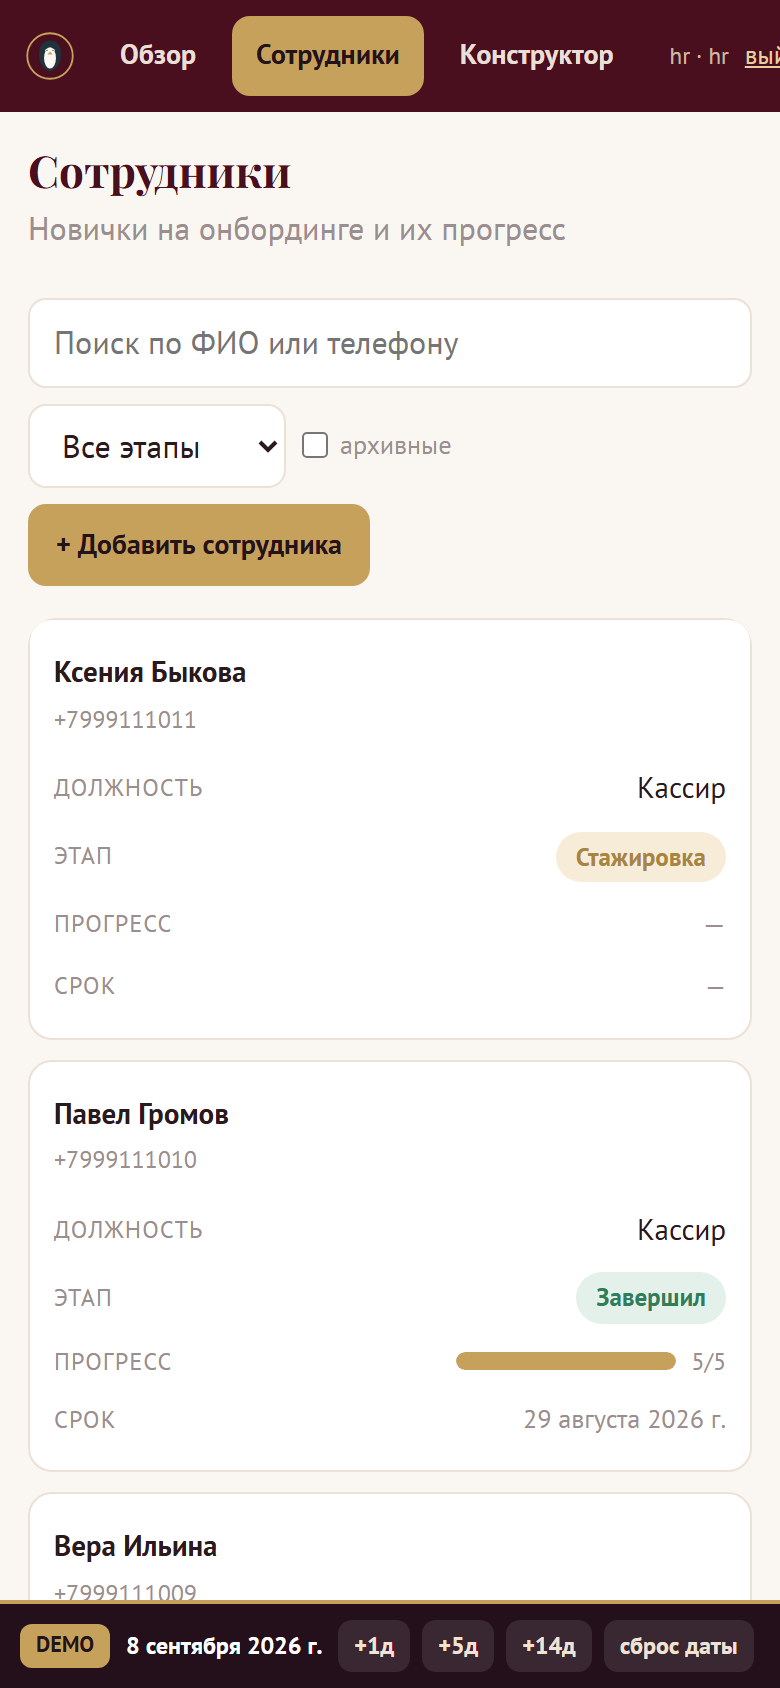
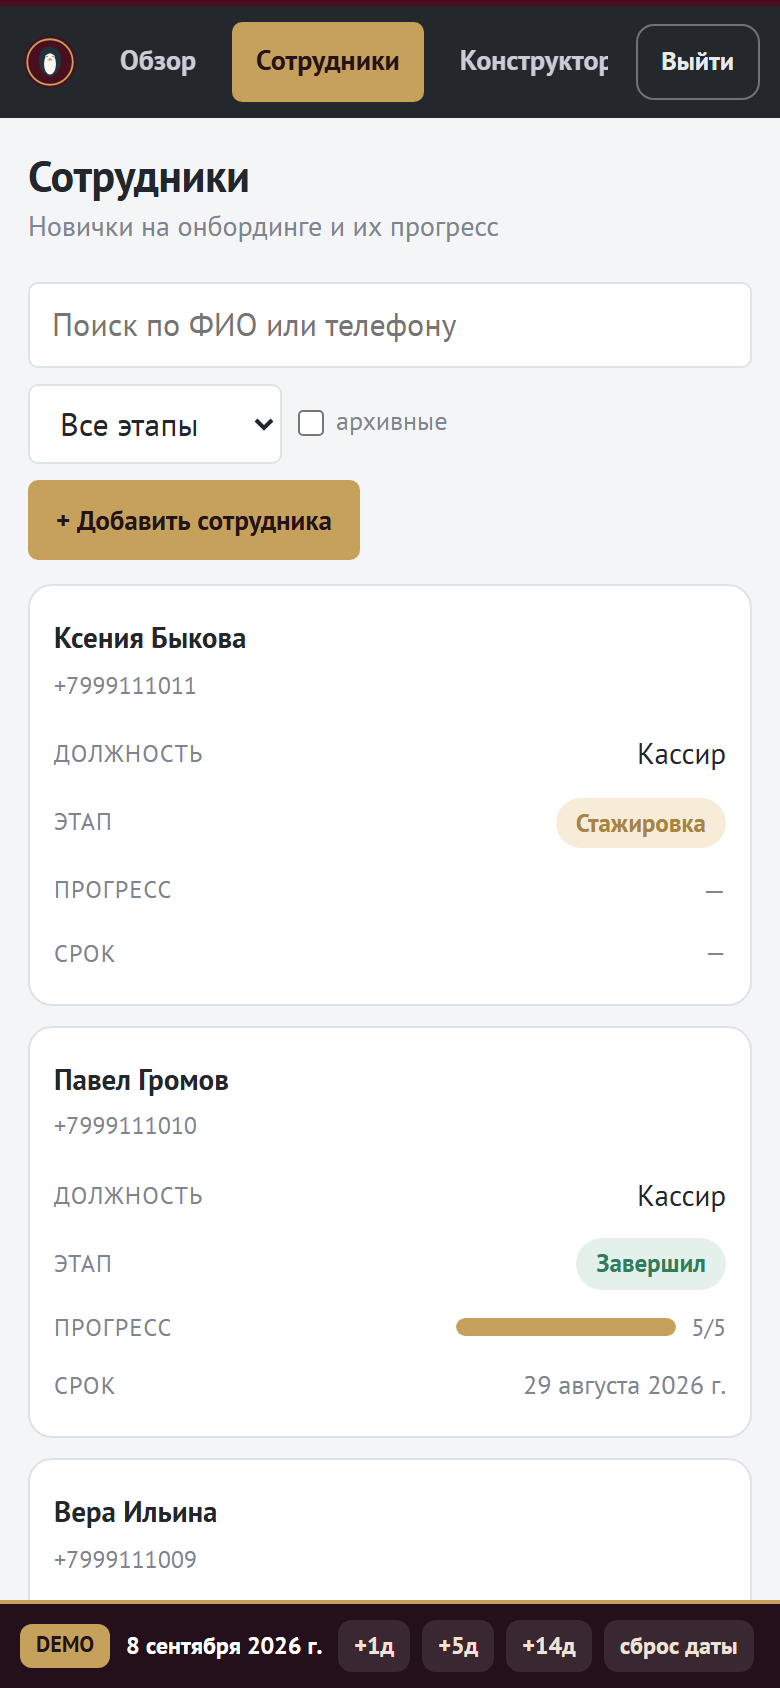
Строгий вид рабочей панели HR
Скругления 14px -> 6px, кнопки 11 -> 6. Фон приложения нейтральный (#f4f5f7),
тёплый кремовый остался у сотрудника на телефоне через --bg-warm: рабочая
панель и брендовый интерфейс разведены намеренно.

Сайдбар — тёмно-нейтральный с бордовой полосой сверху и золотым активным
пунктом: бренд читается, но не спорит с данными. Заголовки в hr-main без
засечек (Playfair остался в логотипе и у сотрудника). Плотнее: h1 27 -> 21,
padding панелей 20 -> 15, отступы 30/34 -> 22/24.

KPI-цифры на «Обзоре» перевёрстаны в класс .kpi — без засечек, табличные
цифры, подписи капителью.

Сайдбар получил padding-bottom под высоту панели DEMO: она накрывала кнопку
выхода.

Проверено в браузере: 17/17 экранов и 20/20 сценарных проверок.

Changed region(s): [[0.0308, 0.1848, 0.9538, 0.955], [0.0, 0.0, 1.0, 0.154], [0.7077, 0.4313, 0.9538, 0.5237]]

diff --git a/prototype/web/src/styles.css b/prototype/web/src/styles.css
@@ -9,16 +9,20 @@
   --primary-2: #6a2436;
   --accent: #c6a15b;
   --accent-dark: #a9843f;
-  --bg: #faf6f2;
+  --bg: #f4f5f7;              /* рабочий фон — нейтральный */
+  --bg-warm: #faf6f2;         /* тёплый фон остаётся у сотрудника на телефоне */
+  --ink: #24272c;             /* тёмный нейтральный: сайдбар, строгие заголовки */
+  --ink-2: #33373e;
   --surface: #ffffff;
-  --text: #2a1a1e;
-  --muted: #9b8e8e;
-  --line: #ece1d6;
+  --text: #23262b;
+  --muted: #7d8590;
+  --line: #dfe2e6;
+  --line-warm: #ece1d6;
   --error: #c0392b;
   --success: #2e7d5b;
-  --radius: 14px;
-  --shadow: 0 6px 24px rgba(74, 15, 30, 0.09);
-  --shadow-lg: 0 18px 50px rgba(74, 15, 30, 0.18);
+  --radius: 6px;
+  --shadow: 0 1px 2px rgba(16, 20, 26, .06);
+  --shadow-lg: 0 10px 32px rgba(16, 20, 26, .16);
   --devbar-h: 44px;
   font-family: 'PT Sans', -apple-system, 'Segoe UI', Roboto, sans-serif;
 }
@@ -35,7 +39,7 @@ input, textarea, select { font: inherit; color: var(--text); }
 
 /* ---------- buttons ---------- */
 .btn { display: inline-flex; align-items: center; justify-content: center; gap: 8px;
-  padding: 12px 20px; border-radius: 11px; font-weight: 700; transition: .15s;
+  padding: 11px 18px; border-radius: 6px; font-weight: 700; transition: .15s;
   background: var(--accent); color: #241318; }
 .btn:hover { background: var(--accent-dark); }
 .btn:disabled { opacity: .45; cursor: not-allowed; }
@@ -47,7 +51,7 @@ input, textarea, select { font: inherit; color: var(--text); }
 .btn.dark:hover { background: var(--primary-2); }
 .btn.danger { background: transparent; color: var(--error); border: 1.5px solid #e8c4bf; }
 .btn.danger:hover { background: #fbeceb; }
-.btn.sm { padding: 8px 14px; border-radius: 9px; font-size: 14px; }
+.btn.sm { padding: 7px 13px; border-radius: 5px; font-size: 13.5px; }
 
 /* ---------- generic ---------- */
 .card { background: var(--surface); border: 1px solid var(--line); border-radius: var(--radius); box-shadow: var(--shadow); }
@@ -85,9 +89,9 @@ input, textarea, select { font: inherit; color: var(--text); }
 /* ---------- employee (mobile app-shell) ---------- */
 .phone-wrap { min-height: 100%; display: flex; justify-content: center;
   padding: 0 0 var(--devbar-h);
-  background: radial-gradient(120% 60% at 50% 0%, #f3e8dc 0%, var(--bg) 60%); }
+  background: radial-gradient(120% 60% at 50% 0%, #f3e8dc 0%, var(--bg-warm) 60%); }
 .phone { width: 100%; max-width: 460px; min-height: calc(100vh - var(--devbar-h));
-  background: var(--bg); display: flex; flex-direction: column; position: relative; }
+  background: var(--bg-warm); display: flex; flex-direction: column; position: relative; }
 @media (min-width: 620px) {
   .phone-wrap { align-items: flex-start; padding: 30px 16px calc(var(--devbar-h) + 24px); }
   .phone { min-height: calc(100vh - var(--devbar-h) - 70px); border-radius: 30px;
@@ -107,7 +111,7 @@ input, textarea, select { font: inherit; color: var(--text); }
 
 /* липкая нижняя панель с главным действием — достаётся большим пальцем */
 .phone-action { position: sticky; bottom: var(--devbar-h); z-index: 6;
-  background: var(--bg); box-shadow: 0 -14px 18px -6px var(--bg), 0 -1px 0 var(--line);
+  background: var(--bg-warm); box-shadow: 0 -14px 18px -6px var(--bg-warm), 0 -1px 0 var(--line-warm);
   padding: 12px 16px calc(12px + env(safe-area-inset-bottom, 0px));
   margin-top: 10px; }
 .phone-action .btn { min-height: 52px; font-size: 17px; }
@@ -179,28 +183,37 @@ input, textarea, select { font: inherit; color: var(--text); }
 
 /* ---------- HR (desktop) ---------- */
 .hr-app { display: flex; min-height: 100vh; }
-.hr-side { width: 232px; background: var(--primary); color: #fff; padding: 20px 14px; flex: none;
-  display: flex; flex-direction: column; gap: 4px; position: sticky; top: 0; height: 100vh; }
+.hr-side { width: 212px; background: var(--ink); color: #fff; padding: 16px 12px; flex: none;
+  display: flex; flex-direction: column; gap: 3px; position: sticky; top: 0; height: 100vh;
+  /* снизу висит служебная панель DEMO — иначе она накрывает кнопку выхода */
+  padding-bottom: calc(var(--devbar-h) + 12px);
+  border-top: 3px solid var(--primary); }
 .hr-side .brand { font-family: 'Playfair Display', serif; font-weight: 700; font-size: 18px; padding: 8px 10px 16px; }
-.hr-side .brand small { display: block; color: #e6cfa0; font-family: 'PT Sans'; font-weight: 400; font-size: 12px; }
-.hr-side a { color: #eadfd7; text-decoration: none; padding: 10px 12px; border-radius: 9px; font-weight: 700; font-size: 14.5px; }
+.hr-side .brand small { display: block; color: #98a0ab; font-family: 'PT Sans'; font-weight: 400; font-size: 12px; }
+.hr-side a { color: #c9ced6; text-decoration: none; padding: 9px 11px; border-radius: 5px; font-weight: 700; font-size: 14px; }
 .hr-side a:hover { background: rgba(255,255,255,.08); }
 .hr-side a.active { background: var(--accent); color: #241318; }
+.hr-side a:not(.active):hover { color: #fff; }
 .hr-side .hr-nav { display: flex; flex-direction: column; gap: 4px; }
-.hr-side .who { margin-top: auto; font-size: 12.5px; color: #cbb6a2; padding: 10px 2px 2px;
+.hr-side .who { margin-top: auto; font-size: 12.5px; color: #98a0ab; padding: 10px 2px 2px;
   display: flex; flex-direction: column; gap: 8px; align-items: stretch; }
 .hr-side .who .acct { padding: 0 8px; }
-.hr-side .who .logout { color: #f3e6d4; font-size: 13.5px; font-weight: 700; padding: 9px 12px;
+.hr-side .who .logout { color: #e7eaee; font-size: 13.5px; font-weight: 700; padding: 9px 12px;
   border: 1.5px solid rgba(255,255,255,.35); border-radius: 9px; background: transparent;
   cursor: pointer; text-align: center; }
 .hr-side .who .logout:hover { background: rgba(255,255,255,.12); border-color: rgba(255,255,255,.6); }
 
-.hr-main { flex: 1; padding: 30px 34px 96px; max-width: 1180px; }
-.hr-main h1 { font-size: 27px; margin-bottom: 4px; }
-.hr-main .subtitle { color: var(--muted); margin-bottom: 22px; }
+.hr-main { flex: 1; padding: 22px 24px 88px; max-width: 1180px; }
+/* в рабочей панели заголовки без засечек — засечки остаются в логотипе и у сотрудника */
+.hr-main h1, .hr-main h2, .hr-main h3, .hr-main h4 {
+  font-family: 'PT Sans', -apple-system, 'Segoe UI', Roboto, sans-serif;
+  color: var(--text); letter-spacing: -.01em; }
+.hr-main h1 { font-size: 21px; margin-bottom: 2px; }
+.hr-main h2 { font-size: 17px; }
+.hr-main .subtitle { color: var(--muted); font-size: 14px; margin-bottom: 16px; }
 
-.toolbar { display: flex; gap: 10px; align-items: center; margin-bottom: 16px; flex-wrap: wrap; }
-.toolbar input, .toolbar select { padding: 9px 12px; border: 1.5px solid var(--line); border-radius: 9px; background: #fff; }
+.toolbar { display: flex; gap: 8px; align-items: center; margin-bottom: 12px; flex-wrap: wrap; }
+.toolbar input, .toolbar select { padding: 8px 11px; border: 1px solid var(--line); border-radius: 5px; background: #fff; }
 .toolbar .grow { flex: 1; }
 
 table.grid { width: 100%; border-collapse: collapse; background: #fff; border: 1px solid var(--line);
@@ -214,8 +227,12 @@ table.grid tbody tr:hover { background: #fdfaf6; }
 .mini-progress { display: flex; align-items: center; gap: 8px; }
 .mini-progress .progress { width: 90px; }
 
-.panel { background: #fff; border: 1px solid var(--line); border-radius: var(--radius); padding: 20px; margin-bottom: 16px; }
-.panel > h3 { font-size: 16px; margin-bottom: 12px; }
+.panel { background: #fff; border: 1px solid var(--line); border-radius: var(--radius); padding: 15px 16px; margin-bottom: 12px; }
+.panel > h3 { font-size: 15px; margin-bottom: 10px; }
+.panel.kpi { margin-bottom: 0; padding: 12px 14px; }
+.panel.kpi .n { font-size: 26px; font-weight: 700; color: var(--text); line-height: 1.1;
+  font-variant-numeric: tabular-nums; }
+.panel.kpi .muted { font-size: 12px; text-transform: uppercase; letter-spacing: .04em; margin-top: 2px; }
 .kv { display: grid; grid-template-columns: 150px 1fr; gap: 6px 14px; font-size: 14.5px; }
 .kv dt { color: var(--muted); }
 

diff --git a/prototype/web/src/pages/hr/Overview.tsx b/prototype/web/src/pages/hr/Overview.tsx
@@ -21,23 +21,23 @@ export function Overview() {
       {error && <ErrorBox error={error} onRetry={reload} />}
       {data && (
         <>
-          <div style={{ display: 'grid', gridTemplateColumns: 'repeat(auto-fit,minmax(160px,1fr))', gap: 14, marginBottom: 22 }}>
+          <div style={{ display: 'grid', gridTemplateColumns: 'repeat(auto-fit,minmax(160px,1fr))', gap: 10, marginBottom: 18 }}>
             {(['intern', 'onboarding', 'completed', 'archived'] as const).map((s) => (
-              <div key={s} className="panel" style={{ marginBottom: 0, textAlign: 'center' }}>
-                <div style={{ fontFamily: 'Playfair Display, serif', fontSize: 30, color: 'var(--primary)' }}>
+              <div key={s} className="panel kpi">
+                <div className="n">
                   {data.by_stage[s] ?? 0}
                 </div>
                 <div className="muted" style={{ fontSize: 13 }}>{STAGE_LABEL[s]}</div>
               </div>
             ))}
-            <div className="panel" style={{ marginBottom: 0, textAlign: 'center' }}>
-              <div style={{ fontFamily: 'Playfair Display, serif', fontSize: 30, color: data.overdue ? 'var(--error)' : 'var(--muted)' }}>
+            <div className="panel kpi">
+              <div className="n" style={{ color: data.overdue ? 'var(--error)' : 'var(--muted)' }}>
                 {data.overdue}
               </div>
               <div className="muted" style={{ fontSize: 13 }}>Просрочено</div>
             </div>
-            <div className="panel" style={{ marginBottom: 0, textAlign: 'center' }}>
-              <div style={{ fontFamily: 'Playfair Display, serif', fontSize: 30, color: 'var(--primary)' }}>
+            <div className="panel kpi">
+              <div className="n">
                 {data.avg_onboarding_days ?? '—'}
               </div>
               <div className="muted" style={{ fontSize: 13 }}>Средний срок, дней</div>
